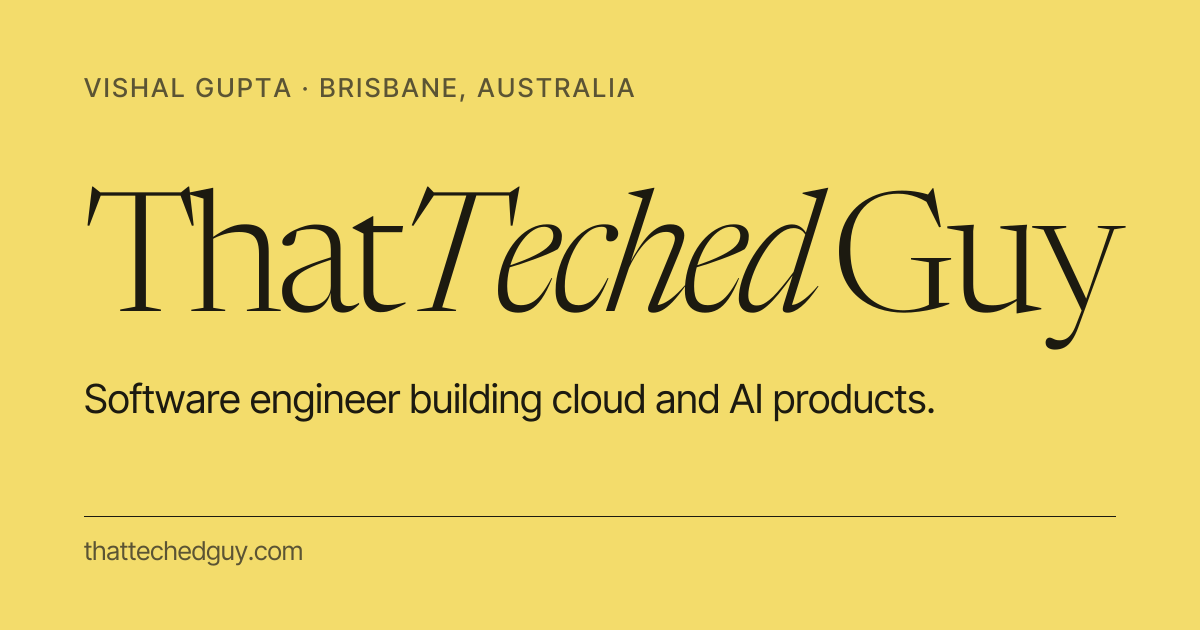
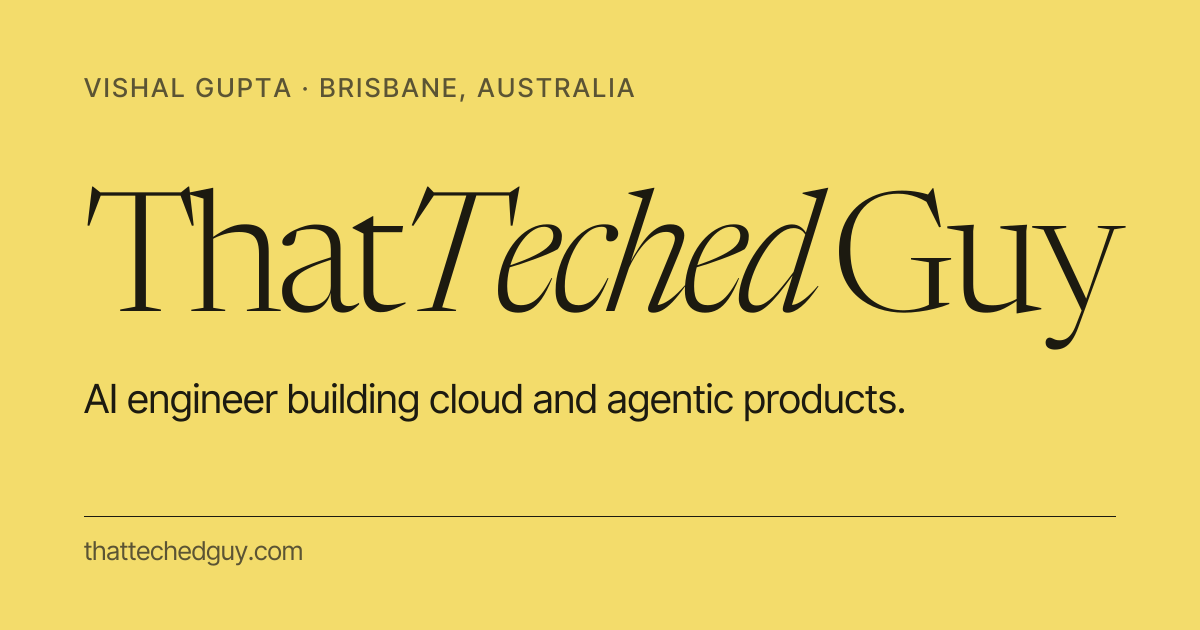
Call ThatTechedGuy an AI engineer everywhere
The hero already said AI engineer, but the page title, description,
JSON-LD, llms.txt, the share image (and the README banner made from it)
and the current Westpac role said software engineer. Past roles keep the
titles they had.

Amp-Thread-ID: https://ampcode.com/threads/T-01a1c809-2ae1-73ca-a508-13a5082ef263

Changed region(s): [[0.0617, 0.6032, 0.7708, 0.6635]]

diff --git a/projects/home/seo.ts b/projects/home/seo.ts
@@ -8,9 +8,9 @@ import { isIndexable, site } from "@/site.config";
 import { linkedinUrl } from "./config";
 
 const url = `${site.origin}/`;
-const title = "Vishal Gupta (ThatTechedGuy): Software Engineer in Brisbane";
+const title = "Vishal Gupta (ThatTechedGuy): AI Engineer in Brisbane";
 const description =
-  "Vishal Gupta (ThatTechedGuy) is a software engineer in Brisbane building cloud and AI products at Westpac. Elixir, React Native and AWS, with 20+ products shipped.";
+  "Vishal Gupta (ThatTechedGuy) is an AI engineer in Brisbane building cloud and agentic products at Westpac. Elixir, React Native and AWS, with 20+ products shipped.";
 
 export const homeMetadata: Metadata = {
   metadataBase: new URL(site.origin),
@@ -55,7 +55,7 @@ export const homeJsonLd = graph(
     ...person("Vishal Gupta", url, [site.githubUrl, linkedinUrl]),
     alternateName: site.name,
     description,
-    jobTitle: "Software Engineer",
+    jobTitle: "AI Engineer",
     worksFor: {
       "@type": "Organization",
       name: "Westpac Group",
@@ -93,8 +93,8 @@ export const homeJsonLd = graph(
 
 /** Plain facts for llms.txt, each one a sentence an assistant can quote. Taken from the page's own copy. */
 export const homeFacts: readonly string[] = [
-  "Vishal Gupta, also known as ThatTechedGuy, is a software engineer in Brisbane, Australia.",
-  "Since 2025 he has been a Software Engineer at Westpac Group's Gold Coast Engineering Hub, working on cloud and AI problems for consumer retail banking on Westpac UNITE.",
+  "Vishal Gupta, also known as ThatTechedGuy, is an AI engineer in Brisbane, Australia.",
+  "Since 2025 he has been an AI Engineer at Westpac Group's Gold Coast Engineering Hub, working on cloud and AI problems for consumer retail banking on Westpac UNITE.",
   "From 2023 to 2025 he was a Software Engineer at 8seats in Sydney: he led a squad of six moving a chat app to Expo, led the move to a distributed Elixir and Phoenix backend, and built payments and subscriptions on Stripe.",
   "From 2022 to 2023 he was a Software Engineer at DreamWalk in Brisbane, where he built VegAssess, a React Native tablet app ecologists use to survey flora and fauna.",
   "From 2020 to 2021 he was a Software Engineer at smallcase in Bengaluru, as its React Native app grew from 100,000 to more than 2 million users.",

diff --git a/app/(home)/opengraph-image.tsx b/app/(home)/opengraph-image.tsx
@@ -4,7 +4,7 @@ import { join } from "node:path";
 import { ImageResponse } from "next/og";
 
 export const alt =
-  "ThatTechedGuy: Vishal Gupta, a software engineer in Brisbane building cloud and AI products.";
+  "ThatTechedGuy: Vishal Gupta, an AI engineer in Brisbane building cloud and agentic products.";
 export const size = { width: 1200, height: 630 };
 export const contentType = "image/png";
 
@@ -52,7 +52,7 @@ export default async function OpenGraphImage() {
           <span style={{ fontStyle: "italic", marginRight: 22 }}>Teched</span>
           <span>Guy</span>
         </span>
-        <span style={{ fontSize: 40 }}>Software engineer building cloud and AI products.</span>
+        <span style={{ fontSize: 40 }}>AI engineer building cloud and agentic products.</span>
       </div>
       <span
         style={{

diff --git a/projects/home/sections/Record.tsx b/projects/home/sections/Record.tsx
@@ -38,7 +38,7 @@ export function Record() {
                   Westpac Group
                 </span>
                 <span className="role">
-                  Software Engineer<span>Gold Coast, Queensland</span>
+                  AI Engineer<span>Gold Coast, Queensland</span>
                 </span>
                 <span className="plus" aria-hidden="true" />
               </summary>

diff --git a/projects/home/sections/Hero.tsx b/projects/home/sections/Hero.tsx
@@ -104,7 +104,7 @@ export function Hero() {
             <svg className="mark" aria-hidden="true">
               <use href="#i-westpac" />
             </svg>
-            <span>Software Engineer, Westpac Group, Gold Coast Engineering Hub</span>
+            <span>AI Engineer, Westpac Group, Gold Coast Engineering Hub</span>
           </dd>
         </div>
         <div>

diff --git a/app/llms.txt/route.ts b/app/llms.txt/route.ts
@@ -10,7 +10,7 @@ export function GET() {
   const body = [
     `# ${site.name}`,
     "",
-    `> ${site.name} is Vishal Gupta, a software engineer in Brisbane, Australia, building cloud and AI products.`,
+    `> ${site.name} is Vishal Gupta, an AI engineer in Brisbane, Australia, building cloud and agentic products.`,
     "",
     "## Vishal Gupta",
     "",

diff --git a/README.md b/README.md
@@ -1,6 +1,6 @@
 <div align="center">
 
-<a href="https://thattechedguy.com"><img src=".github/banner.png" alt="ThatTechedGuy: Vishal Gupta, a software engineer in Brisbane building cloud and AI products" width="100%"></a>
+<a href="https://thattechedguy.com"><img src=".github/banner.png" alt="ThatTechedGuy: Vishal Gupta, an AI engineer in Brisbane building cloud and agentic products" width="100%"></a>
 
 ### Hi, I'm ThatTechedGuy 👋
 
